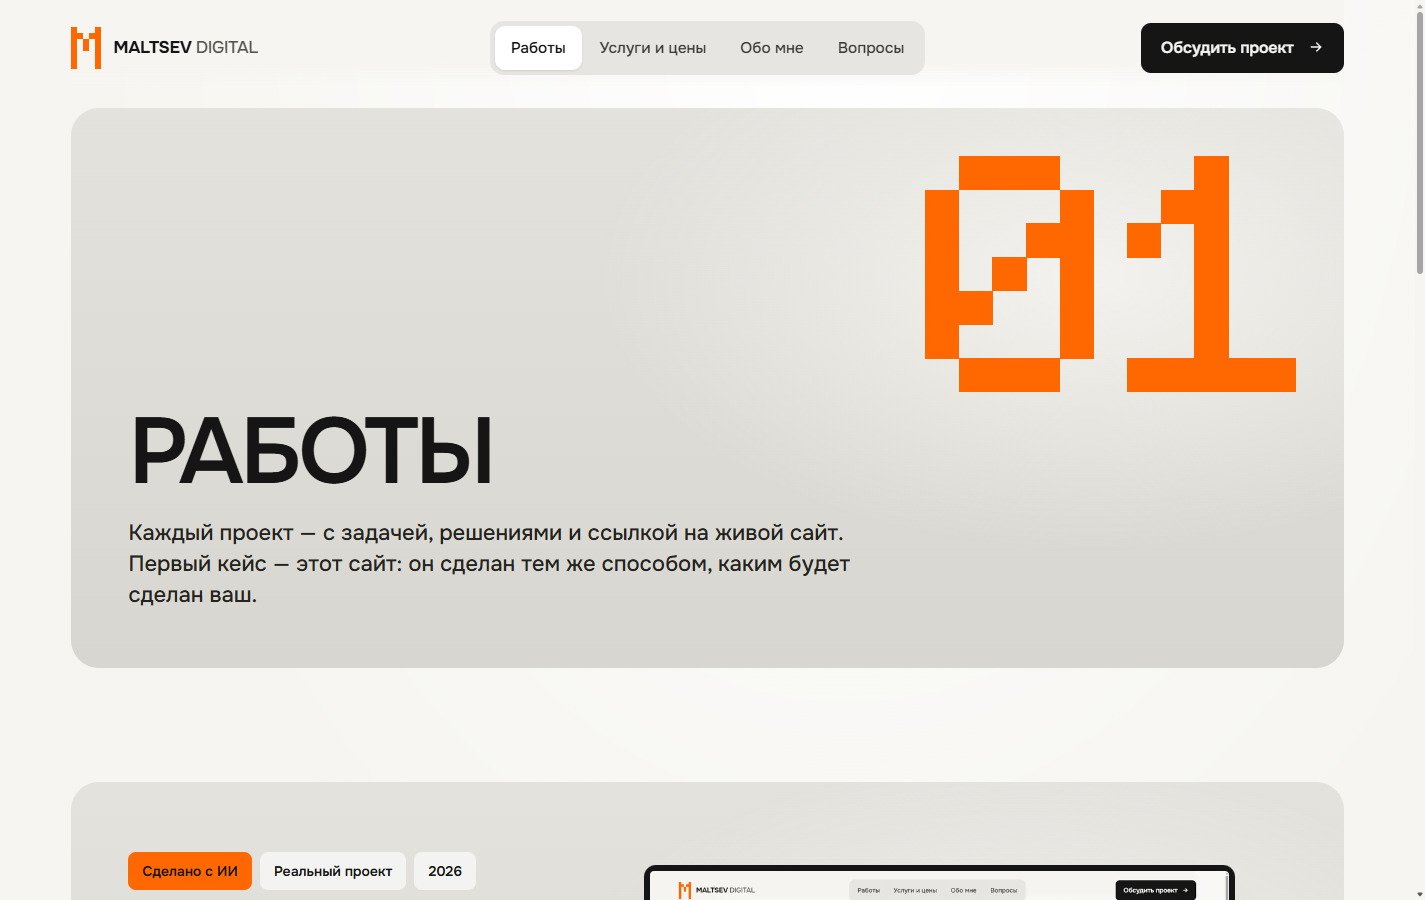
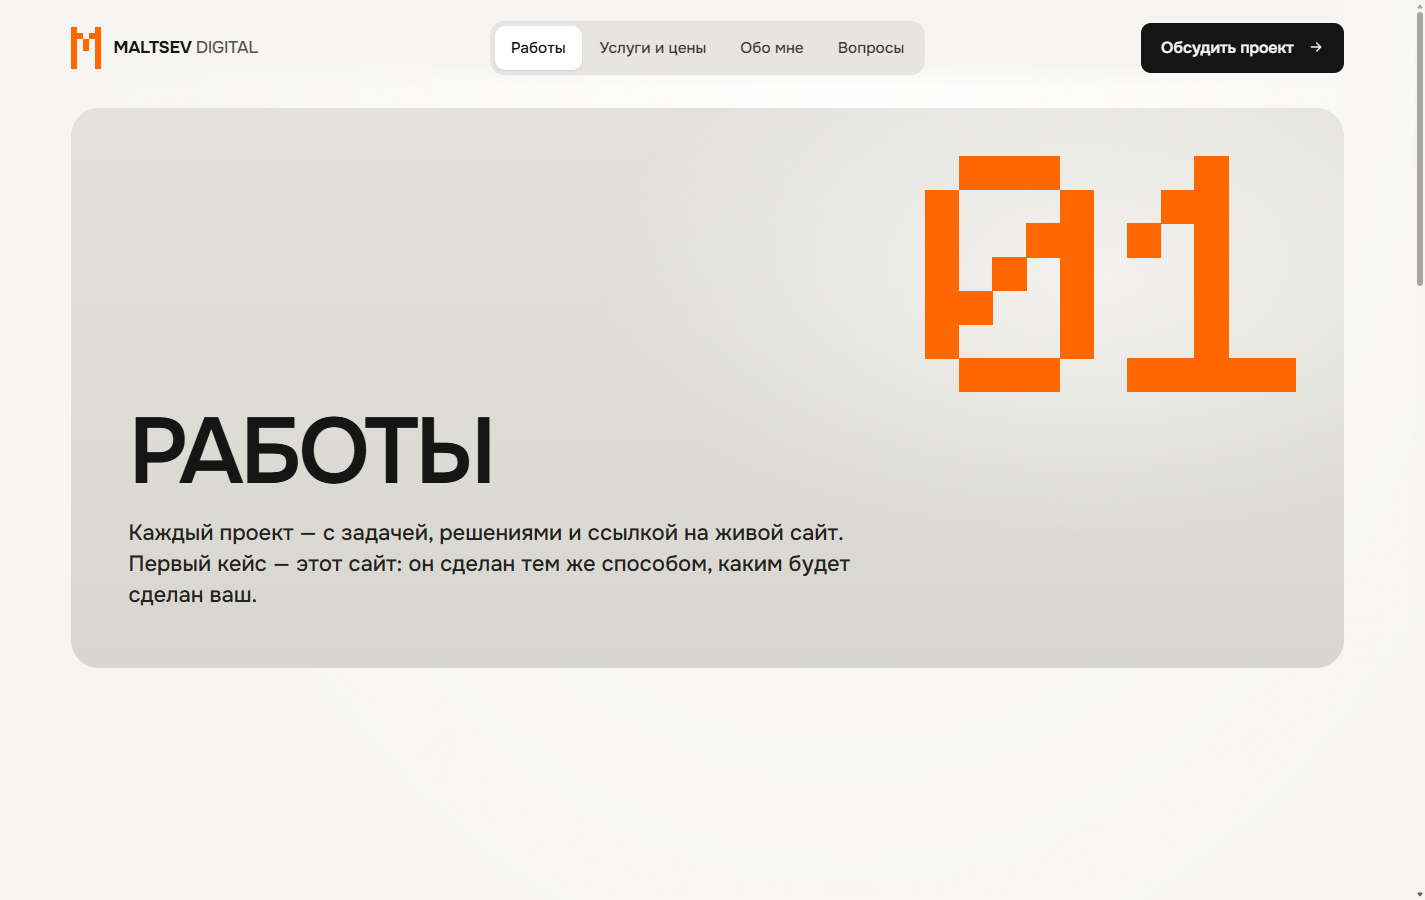
Case showcase: middle ground with plain-language facts
The home and portfolio showcase keeps the essentials: AI tag with the
year, title, one sentence, three facts in a thin row and the button.
Technical figures are replaced by facts a client understands: "90+ из
100" speed by Google's estimate, "Любой экран" and "7 страниц". Results
get an optional short label for the showcase; the case page keeps the
fuller wording. Narrow screens stack the facts value-first.

Changed region(s): [[0.4323, 0.9333, 0.8646, 1.0], [0.0926, 0.9333, 0.2779, 0.9956], [0.3088, 0.9644, 0.3396, 0.9956]]

diff --git a/src/content.config.ts b/src/content.config.ts
@@ -42,7 +42,7 @@ const projects = defineCollection({
         })
         .default({}),
       /** Результаты проекта — только реальные, проверяемые цифры. */
-      results: z.array(z.object({ value: z.string(), label: z.string() })).default([]),
+      results: z.array(z.object({ value: z.string(), label: z.string(), short: z.string().optional() })).default([]),
       liveUrl: z.url().optional(),
       repoUrl: z.url().optional(),
     }),

diff --git a/src/content/projects/maltsev-digital.md b/src/content/projects/maltsev-digital.md
@@ -1,6 +1,6 @@
 ---
 title: Maltsev Digital
-summary: Сайт-портфолио студии, спроектированный и собранный вместе с ИИ-инструментами — от исследования до публикации.
+summary: Сайт-портфолио, спроектированный и собранный вместе с ИИ — от исследования до запуска.
 category: personal
 isConcept: false
 year: 2026
@@ -31,12 +31,15 @@ responsive:
   tablet: ../../assets/case/home-tablet.png
   mobile: ../../assets/case/home-mobile.png
 results:
-  - value: '90–100'
-    label: производительность по Lighthouse, телефон и десктоп
-  - value: '100'
-    label: доступность и SEO по Lighthouse
-  - value: '360–1920'
-    label: ширины экрана, проверенные в браузере
+  - value: '90+ из 100'
+    label: скорость по оценке Google Lighthouse — на телефоне и компьютере
+    short: скорость по оценке Google
+  - value: Любой экран
+    label: проверено на ширинах от 360 до 1920 пикселей — телефон, планшет, компьютер
+    short: телефон, планшет, компьютер
+  - value: 7 страниц
+    label: с калькулятором стоимости и формой заявки
+    short: с калькулятором стоимости
 ---
 
 ## Как шла работа
